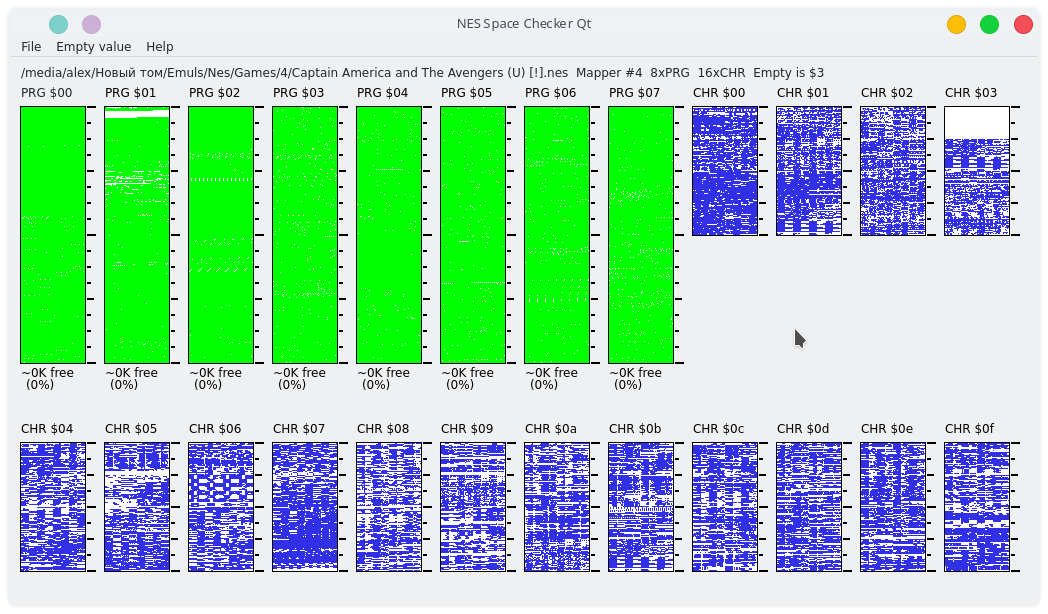
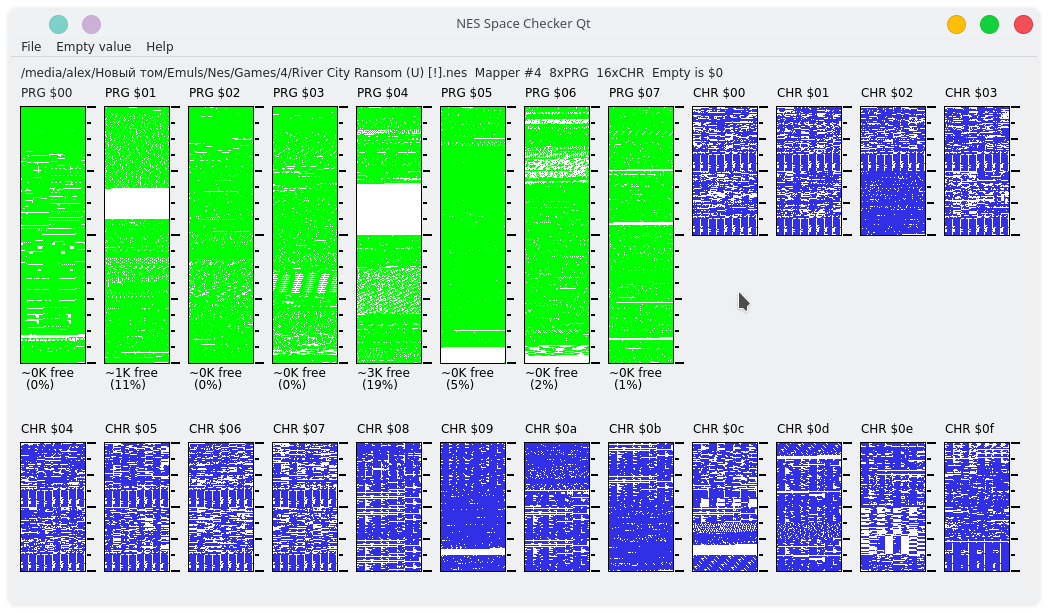
Drag & drop file support was added.

diff --git a/mainwindow.cpp b/mainwindow.cpp
@@ -10,6 +10,10 @@
 #include <QImage>
 #include <QSettings>
 #include <QCloseEvent>
+#include <QDragEnterEvent>
+#include <QDragLeaveEvent>
+#include <QDropEvent>
+#include <QCommandLineParser>
 
 static char *file_data;
 static int file_size;
@@ -26,6 +30,8 @@ MainWindow::MainWindow(QWidget *parent)
     , ui(new Ui::MainWindow)
 {
     ui->setupUi(this);
+    setAcceptDrops(true);
+    setAutoFillBackground(true);
     readSettings();
     timer = new QTimer();
     connect(timer, SIGNAL(timeout()), this, SLOT(updateTimer()));
@@ -131,7 +137,7 @@ void MainWindow::DrawCHR(int x,int y,char *data,QPainter *localpainter)
 void MainWindow::ShowNES()
 {
     QPainter painter(this);
-//    painter.begin(this);
+    painter.begin(this);
 
     QString str;
     int lens[256];
@@ -266,6 +272,10 @@ bool MainWindow::LoadNES(QString file_name)
 {
     char NESHeader[16];
 
+    // file_name="/home/alex/rom.nes";
+
+    ui->menuHelp->setTitle(file_name);
+
     QFile* nes_file = new QFile(file_name);
 
     filename = file_name;
@@ -372,7 +382,6 @@ void MainWindow::on_actionReload_triggered()
 
 void MainWindow::updateTimer()
 {
-    qDebug("Timer active");
 
     if (!(ui->actionWatch->isChecked()))
         return;
@@ -431,13 +440,43 @@ void MainWindow::on_actionSave_report_triggered()
 
     img.save(path+".png");
 
-    QByteArray ba = path.toLocal8Bit();
+    // QByteArray ba = path.toLocal8Bit();
 
     // unsigned char *res = (unsigned char *)strdup(ba.constData());
     // qDebug("%s",res);
 
 }
 
-void MainWindow::on_actionChart_triggered()
+void MainWindow::dragEnterEvent(QDragEnterEvent *event)
 {
+     setBackgroundRole(QPalette::Highlight);
+     event->acceptProposedAction();
+     emit changed(event->mimeData());
+}
+
+void MainWindow::dragLeaveEvent(QDragLeaveEvent *event)
+{
+    setBackgroundRole(QPalette::NoRole);
+    clear();
+    event->accept();
+}
+
+void MainWindow::dropEvent(QDropEvent *event)
+{
+    const QMimeData *mimeData = event->mimeData();
+    if (mimeData->hasUrls()) {
+        QList<QUrl> urlList = mimeData->urls();
+        QString text;
+        if (urlList.size() > 0) {
+            text = urlList.at(0).path();
+            LoadNES(text);
+            MainWindow::repaint();
+        }
+    }
+    setBackgroundRole(QPalette::NoRole);
+}
+
+void MainWindow::clear()
+{
+    emit changed();
 }

diff --git a/mainwindow.h b/mainwindow.h
@@ -7,6 +7,7 @@
 #include <QTimer>
 #include <QTime>
 #include <about.h>
+#include <QMimeData>
 
 QT_BEGIN_NAMESPACE
 namespace Ui { class MainWindow; }
@@ -21,11 +22,14 @@ public:
     ~MainWindow() override;
 
 protected:
+    void dragEnterEvent(QDragEnterEvent *event) override;
+    void dropEvent(QDropEvent *event) override;
+    void dragLeaveEvent(QDragLeaveEvent *event) override;
     void paintEvent(QPaintEvent *event) override;
     void closeEvent(QCloseEvent *event) override;
     About *about;
-private slots:
 
+private slots:
     void updateTimer();
     void DrawPRG(int x,int y,char *data, QPainter *localpainter, int fill);
     void DrawCHR(int x,int y,char *data, QPainter *localpainter);
@@ -50,7 +54,11 @@ private slots:
 
     void on_actionSave_report_triggered();
 
-    void on_actionChart_triggered();
+public slots:
+    void clear();
+
+signals:
+    void changed(const QMimeData *mimeData = nullptr);
 
 private:
     void readSettings();
